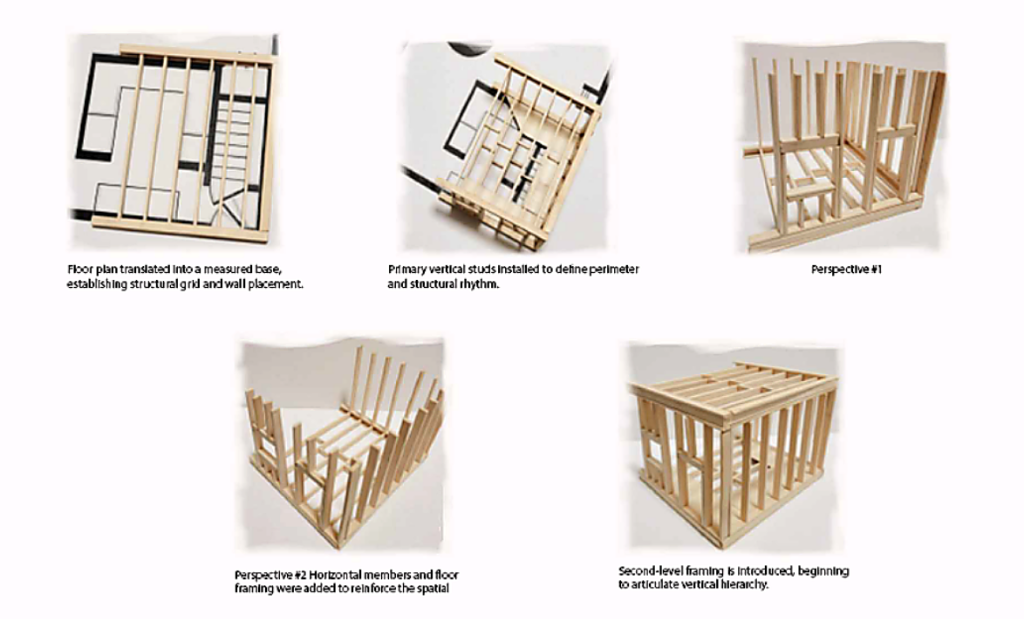
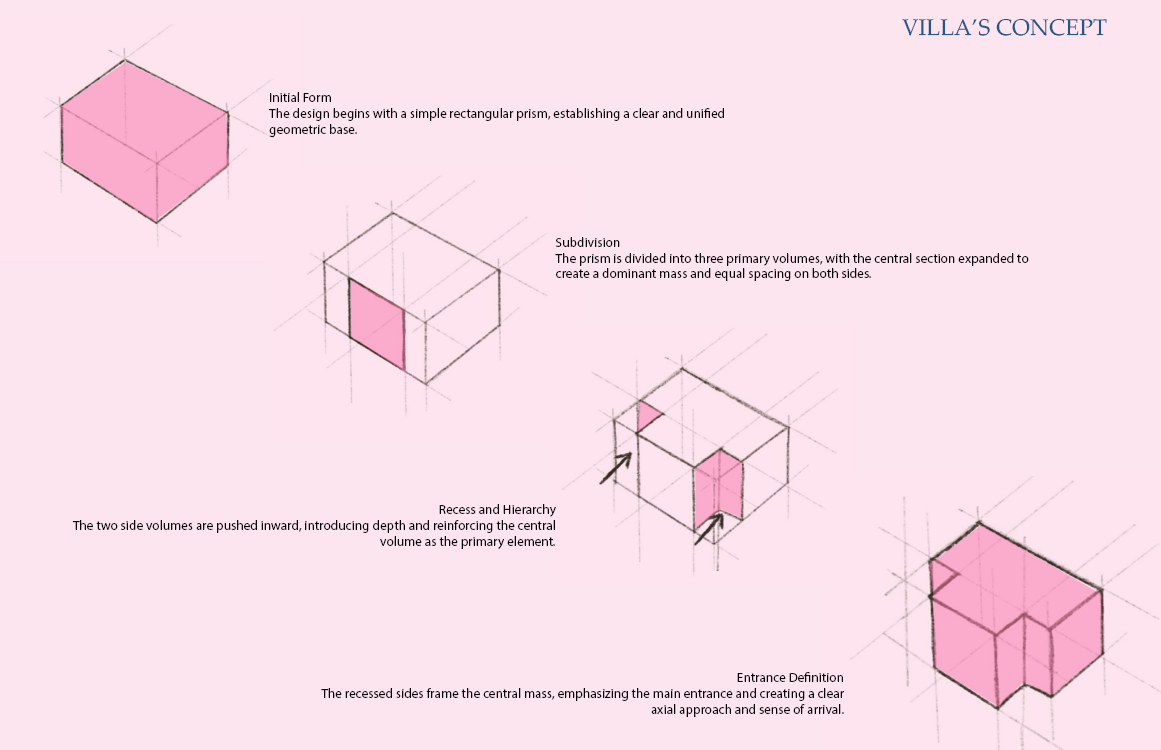
Update Documentation: replace with 43.png, add 42.png below

diff --git a/project-33.html b/project-33.html
@@ -129,13 +129,14 @@
         <div class="pt-12 border-t border-black/10">
             <h3 class="text-[10px] uppercase tracking-[0.3em] text-ink/50 font-medium mb-16 text-center">02 / Documentation</h3>
             <div class="flex flex-col space-y-16 lg:space-y-24">
-                <div class="space-y-6">
+                <div class="space-y-8">
                     <div class="w-full shadow-lg overflow-hidden rounded-none md:rounded-sm bg-[#F8F8F5]">
-                        <img src="img/project3/framing3.png" alt="Final Structure" class="w-full h-auto mix-blend-multiply">
+                        <img src="img/project3/framing3.png?v=2" alt="Villa's Concept Diagram" class="w-full h-auto mix-blend-multiply">
+                    </div>
+                    <div class="w-full shadow-lg overflow-hidden rounded-none md:rounded-sm bg-[#F8F8F5]">
+                        <img src="img/project3/42.png" alt="Spatial Analysis Diagram" class="w-full h-auto mix-blend-multiply">
                     </div>
                 </div>
-                
-            </div>
         </div>
         <!-- Final Structure -->
         <div class="pt-12 border-t border-black/10">
